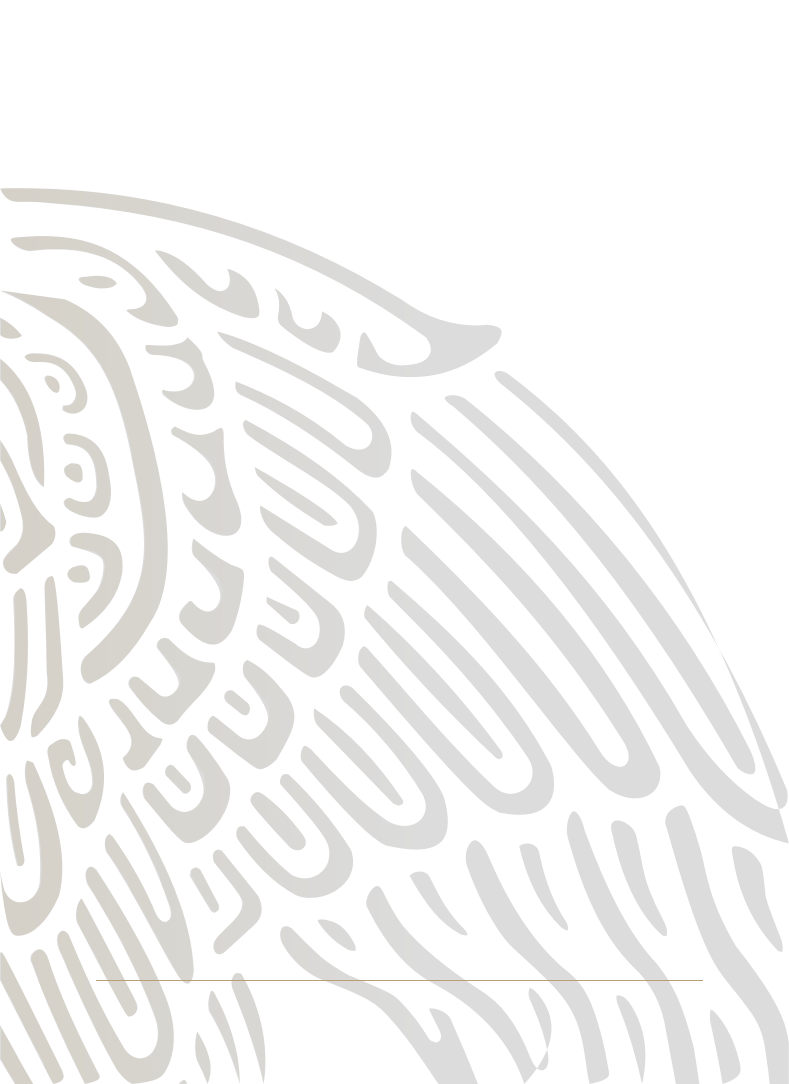
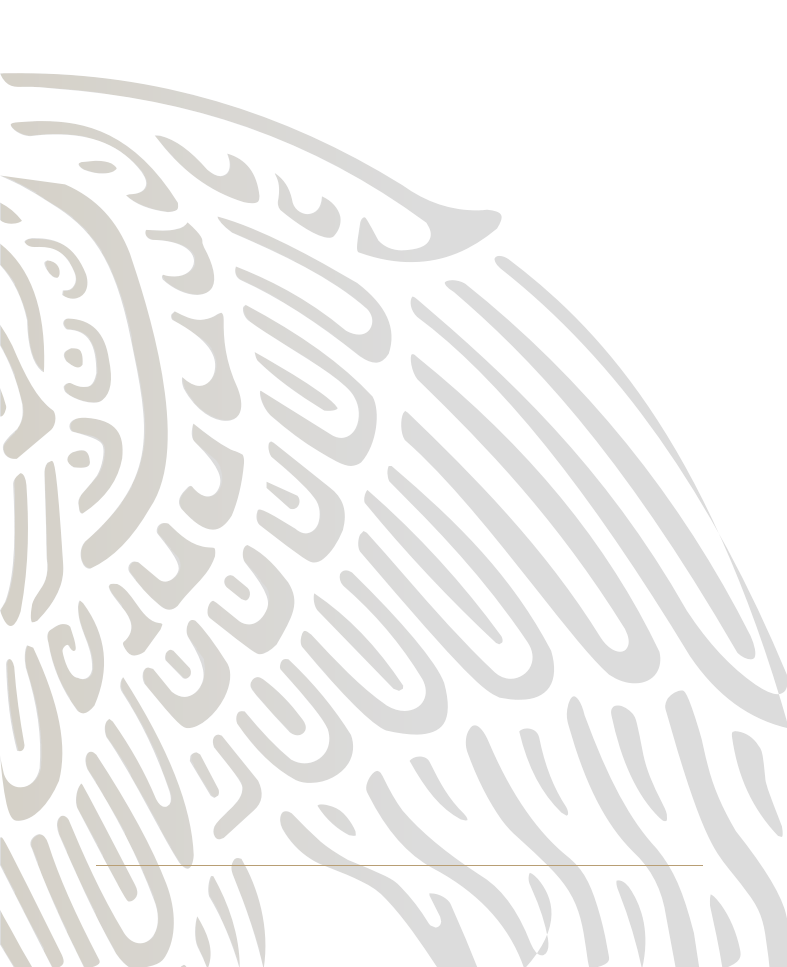
fin501

diff --git a/public/css/style.css b/public/css/style.css
@@ -1,14 +1,25 @@
-body {
-    background-image: url("../img/membretada.png");
-    width: 100%;
-   }
-.barra{
 
+/* .barra{
     position: fixed;
-    top: 0;
+    top: 0; 
     border-width: 0 0 1px;
+} */
+
+.contenedor{
+    position: relative;
+   
 }
-.sep{
+.menbretado {
+    width: 100%;
+    height: 100%;
+    position: fixed;
+}
+.tex{
+    position: absolute;
+    padding-top: 20%;
+}
+
+/* .sep{
     margin-top: 0px;
     width: 100%;
 }
@@ -30,4 +41,4 @@ margin-left: 800px;
     bottom: 0;
     margin-bottom: 0;
     width: 100%; 
-}
+} */
